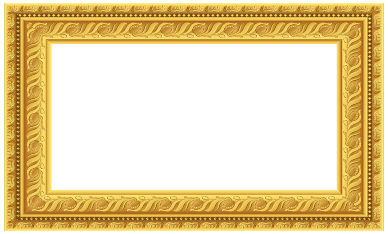
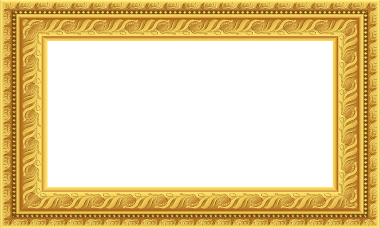
change: crop the framework.png change: rewrite the app so that we have a video and a frame on top of it

diff --git a/lib/main.dart b/lib/main.dart
@@ -1,79 +1,81 @@
-import 'package:flutter/cupertino.dart';
+import 'dart:developer';
+
 import 'package:flutter/material.dart';
 import 'package:video_player/video_player.dart';
 
-
 void main() {
-  runApp(MyApp());
+  runApp(const MyApp());
 }
 
 class MyApp extends StatelessWidget {
+  const MyApp({Key? key}) : super(key: key);
+
   @override
   Widget build(BuildContext context) {
     return MaterialApp(
-        title: 'Congratulations',
-        theme: ThemeData(
-          // This is the theme of your application.
-          //
-          // Try running your application with "flutter run". You'll see the
-          // application has a blue toolbar. Then, without quitting the app, try
-          // changing the primarySwatch below to Colors.green and then invoke
-          // "hot reload" (press "r" in the console where you ran "flutter run",
-          // or simply save your changes to "hot reload" in a Flutter IDE).
-          // Notice that the counter didn't reset back to zero; the application
-          // is not restarted.
-          primarySwatch: Colors.blue,
-        ),
-        home: MyHomePage(),
+      title: 'Congratulations',
+      theme: ThemeData(
+        primarySwatch: Colors.blue,
+      ),
+      home: const MyHomePage(),
     );
   }
 }
 
 class MyHomePage extends StatefulWidget {
+  const MyHomePage({Key? key}) : super(key: key);
+
   @override
   _MyHomePageState createState() => _MyHomePageState();
 }
 
 class _MyHomePageState extends State<MyHomePage> {
-
-  late VideoPlayerController playerController;
-  late VoidCallback listener;
-
+  late VideoPlayerController _controller;
+  late Future<void> _initializeVideoPlayerFuture;
 
   @override
   void initState() {
     super.initState();
-    listener = () {
-      setState(() {});
-    };
+    _controller = VideoPlayerController.network(
+        "https://flutter.github.io/assets-for-api-docs/assets/videos/butterfly.mp4")
+      ..setVolume(1.0);
+    _initializeVideoPlayerFuture = _controller.initialize();
+
+    _controller.addListener(() {
+      log('${_controller.value}');
+      // if (!_controller.value.isPlaying) {
+      //   _controller.play();
+      // }
+    });
   }
 
+  // void createVideo() {
+  //   if (playerController == null) {
 
-  void createVideo() {
-    if (playerController == null) {
-      playerController = VideoPlayerController.network(
-          "https://r3---sn-vgqsknez.googlevideo.com/videoplayback?source=youtube&mime=video%2Fmp4&itag=22&key=cms1&requiressl=yes&beids=%5B9466592%5D&ratebypass=yes&fexp=9466586,23724337&ei=g3jiWvfCL4O_8wScopaICA&signature=43C209DD37289D74DB39A9BBF7BC442EAC049426.14B818F50F4FA686C13AF5DD1C2A498A9D64ECC9&fvip=3&pl=16&sparams=dur,ei,expire,id,initcwndbps,ip,ipbits,ipbypass,itag,lmt,mime,mip,mm,mn,ms,mv,pl,ratebypass,requiressl,source&ip=54.163.50.118&lmt=1524616041346022&expire=1524813027&ipbits=0&dur=1324.768&id=o-AJvotKVxbyFDCz5LQ1HWQ8TvNoHXWb2-86a_50k3EV0f&rm=sn-p5qyz7s&req_id=e462183e4575a3ee&ipbypass=yes&mip=96.244.254.218&redirect_counter=2&cm2rm=sn-p5qe7l7s&cms_redirect=yes&mm=34&mn=sn-vgqsknez&ms=ltu&mt=1524791367&mv=m")
-        ..addListener(listener)
-        ..setVolume(1.0)
-        ..initialize()
-        ..play();
-    } else {
-      if (playerController.value.isPlaying) {
-        playerController.pause();
-      } else {
-        playerController.initialize();
-        playerController.play();
-      }
-    }
+  //       ..initialize()
+  //       ..play();
+  //   } else {
+  //     if (playerController.value.isPlaying) {
+  //       playerController.pause();
+  //     } else {
+  //       playerController.initialize();
+  //       playerController.play();
+  //     }
+  //   }
+  // }
+
+  @override
+  void dispose() {
+    _controller.dispose();
+    super.dispose();
   }
 
   @override
   void deactivate() {
-    playerController.setVolume(0.0);
-    playerController.removeListener(listener);
+    _controller.setVolume(0.0);
+    // _controller.removeListener(listener);
     super.deactivate();
   }
-
 
   // This widget is the root of your application.
   @override
@@ -81,33 +83,49 @@ class _MyHomePageState extends State<MyHomePage> {
     return MaterialApp(
       home: Scaffold(
         appBar: AppBar(
-          title: Text('Congratulations'),
+          title: const Text('Congratulations'),
         ),
-          backgroundColor: Colors.white,
-          body: Center(
-              child: Column(
-            mainAxisAlignment: MainAxisAlignment.spaceEvenly,
-            children: <Widget>[
-              Container(
-                  height: 250,
-                  width: 380,
-                  decoration: BoxDecoration(
-                      color: Colors.transparent,
-                      image: DecorationImage(
-                        image: AssetImage('assets/framework.png'),
-                        fit: BoxFit.fitHeight,
-                      )),
-                  child: Center(
-                    child: Text(
-                      'Hello, Flutter!',
-                      style: TextStyle(
-                        color: Colors.black,
-                        fontSize: 24,
-                      ),
-                    ),
-                  )),
-            ],
-          ))),
+        backgroundColor: Colors.white,
+        body: FutureBuilder(
+          future: _initializeVideoPlayerFuture,
+          builder: (context, snapshot) {
+            if (snapshot.connectionState == ConnectionState.done) {
+              _controller.play();
+              return Center(
+                child: AspectRatio(
+                  aspectRatio: _controller.value.aspectRatio,
+                  // Use the VideoPlayer widget to display the video.
+                  child: Stack(
+                    children: [
+                      VideoPlayer(_controller),
+                      Image.asset(
+                        'assets/framework.png',
+                        fit: BoxFit.fill,
+                        width: _controller.value.size.width,
+                        height: _controller.value.size.height,
+                      )
+                      // Container(
+                      //   width: double.infinity,
+                      //   height: double.infinity,
+                      //   decoration: const BoxDecoration(
+                      //     color: Colors.transparent,
+                      //     image: DecorationImage(
+                      //       image: AssetImage('assets/framework.png'),
+                      //     ),
+                      //   ),
+                      // ),
+                    ],
+                  ),
+                ),
+              );
+            } else {
+              return const Center(
+                child: CircularProgressIndicator(),
+              );
+            }
+          },
+        ),
+      ),
     );
   }
 }
